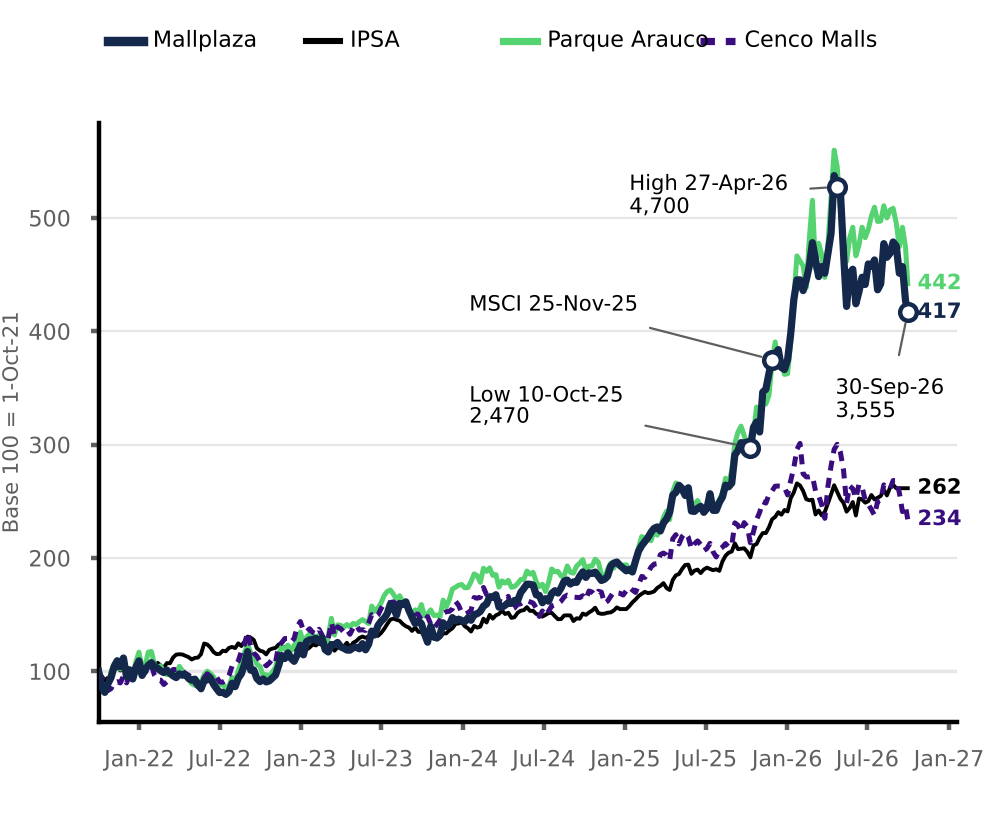
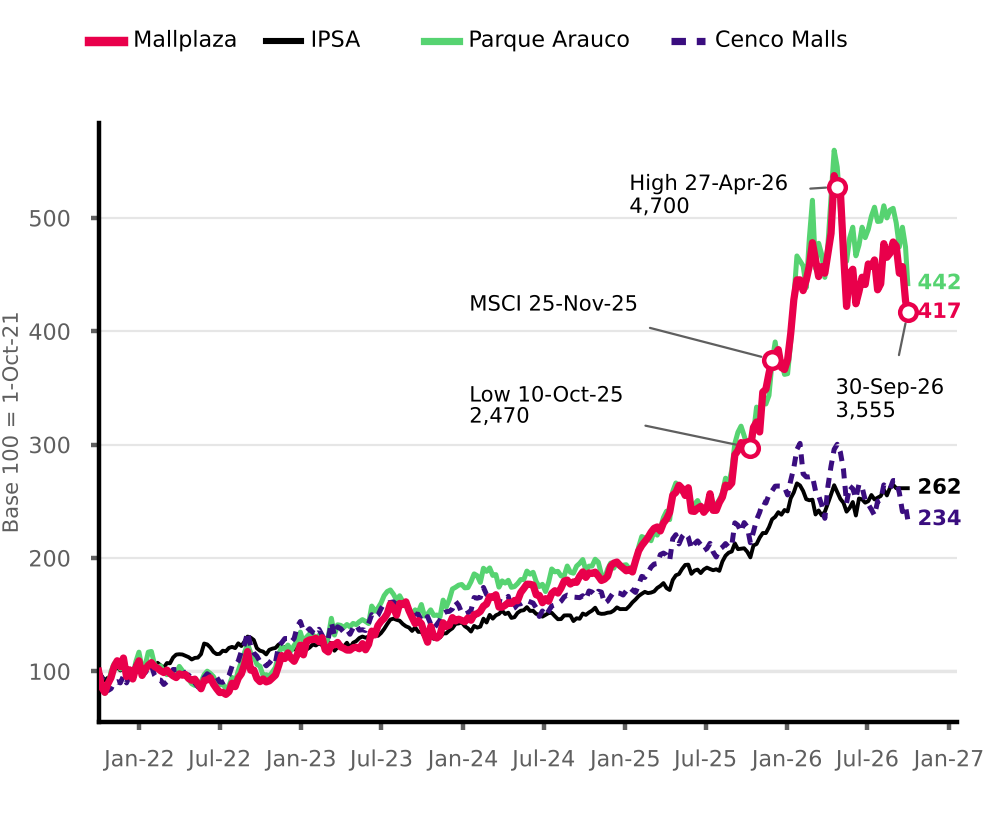
V19: Mallplaza en rojo corporativo y leyenda sin solapes
Claude-Session: https://claude.ai/code/session_0188QZHBkA8n5QL7BtmFakQg

diff --git a/secciones/valuacion/graficos/datos_mercado.py b/secciones/valuacion/graficos/datos_mercado.py
@@ -88,7 +88,7 @@ def caprate(cr, lang, salida):
 def precio(pr, lang, salida):
     es = lang == "es"
     f = [r[0] for r in pr]
-    series = [("Mallplaza", 6, AZUL, 1.3, "-"), ("IPSA", 7, NEGRO, 0.7, "-"), ("Parque Arauco", 8, VERDE_PARQUE_ARAUCO, 0.9, "-"), ("Cenco Malls", 9, MORADO_CENCOSUD, 0.9, (0, (2, 1.5)))]
+    series = [("Mallplaza", 6, ROJO, 1.3, "-"), ("IPSA", 7, NEGRO, 0.7, "-"), ("Parque Arauco", 8, VERDE_PARQUE_ARAUCO, 0.9, "-"), ("Cenco Malls", 9, MORADO_CENCOSUD, 0.9, (0, (2, 1.5)))]
     fig = plt.figure(figsize=(ANCHO, 2.05))
     ax = fig.add_axes([0.10, 0.12, 0.87, 0.73])
     fin = sorted([(pr[-1][c], nombre, col) for nombre, c, col, lw, ls in series])
@@ -107,7 +107,7 @@ def precio(pr, lang, salida):
     for fecha, p, txt, (dx, dy) in hitos:
         i = min(range(len(f)), key=lambda k: abs(f[k] - fecha))
         y = pr[i][6]
-        ax.scatter([f[i]], [y], s=9, facecolor="white", edgecolor=AZUL, linewidth=0.8, zorder=6)
+        ax.scatter([f[i]], [y], s=9, facecolor="white", edgecolor=ROJO, linewidth=0.8, zorder=6)
         t = txt if es or "Mín" not in txt else txt
         ax.annotate(t, (f[i], y), xytext=(dx, dy), fontsize=3.8, color=NEGRO, ha="left", va="center", linespacing=1.05, arrowprops=dict(arrowstyle="-", color=TINTA_SECUNDARIA, linewidth=0.4))
     ax.axhline(100, color=GRILLA, linewidth=0.6, zorder=1)
@@ -116,7 +116,7 @@ def precio(pr, lang, salida):
     ejes(ax, lang)
     ax.set_ylabel("Base 100 = 1-oct-21" if es else "Base 100 = 1-Oct-21", fontsize=3.8, color=TINTA_SECUNDARIA, labelpad=1)
     for i, (nombre, c, col, lw, ls) in enumerate(series):
-        xx = 0.11 + i * 0.2
+        xx = (0.09, 0.27, 0.43, 0.68)[i]
         fig.add_artist(plt.Line2D([xx, xx + 0.035], [0.95, 0.95], color=col, linewidth=lw + 0.4, linestyle=ls, transform=fig.transFigure))
         fig.text(xx + 0.045, 0.95, nombre, fontsize=4.0, color=NEGRO, va="center")
     fig.savefig(salida, dpi=DPI, facecolor="white")
